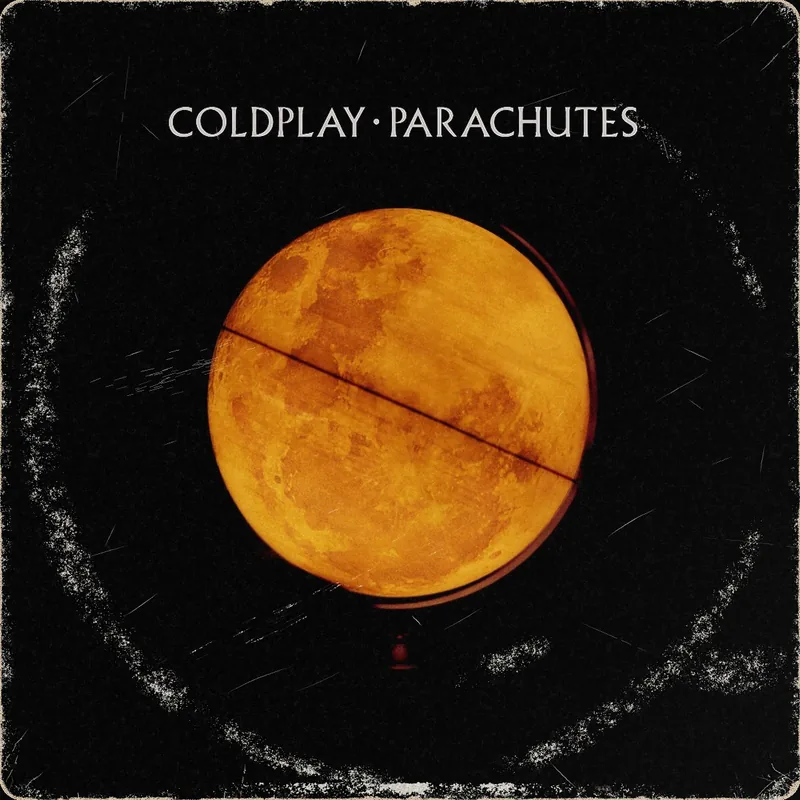
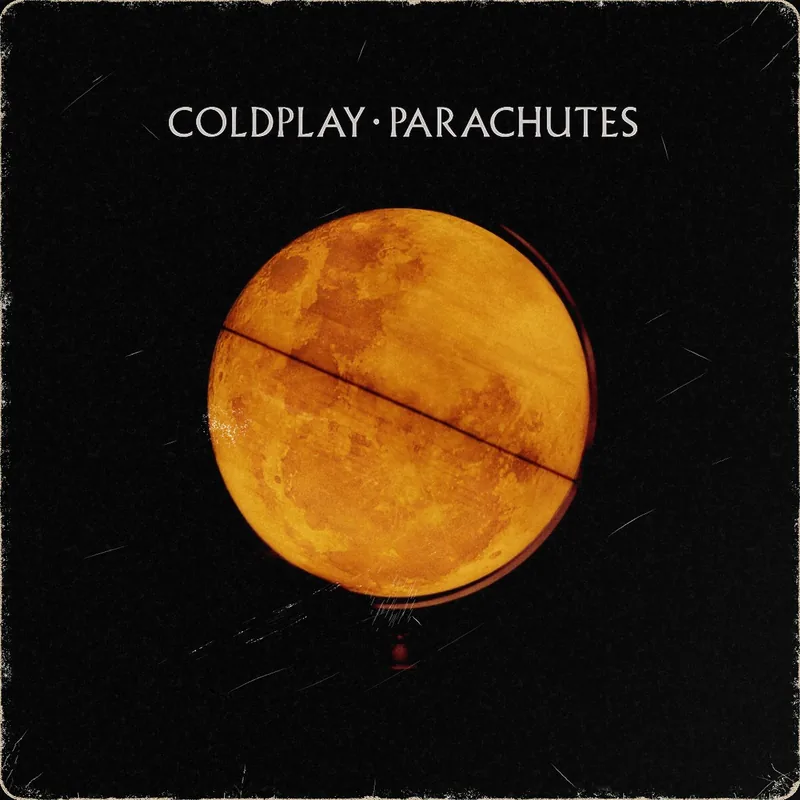
Parachutes sleeve: no ring, lighter face wear on the black cover; wear.ring knob
make-wear.py gets a per-record `ring` knob that scales everything the
disc did (ring, inner band, rim line, rub bars); default 1.0 multiplies
by exactly 1, so every other sleeve renders unchanged (Jungle checked
byte for byte). Parachutes: {level: med, ring: 0, surface: .5}, since the
broad flake ring and rub patches read as salt speckle on flat black.
Story re-rendered.

Claude-Session: https://claude.ai/code/session_01PbqXtG5SizYecEWh39Pkkj

diff --git a/scripts/make-wear.py b/scripts/make-wear.py
@@ -681,20 +681,21 @@ def surface_layer(slug, year, face='', mean=.5, edgew=1.0, surfw=0.0, bendw=0.0)
     return lay
 
 
-def make_mask(slug, year, dens=1.0, edgek=1.0, face='', mean=.5, edgew=1.0, surfw=0.0, bendw=0.0):
+def make_mask(slug, year, dens=1.0, edgek=1.0, face='', mean=.5, edgew=1.0, surfw=0.0, bendw=0.0, ringw=1.0):
     """dens and edgek scale the amount of wear without moving any of it, so every level is the same sleeve.
     face '' is the front, ':back' the back (the ring mirrored, everything else its own). mean is the
     cover's mean luminance (pale stock is handled differently).
     Returns channels: 0 abrasion (exposed paper), 1 crushed edge (card), 2 dirt (shows on light ink),
-    3 the rim's impression line, 4 the rim's stipple, 5 grey grain in rubbed white stock."""
+    3 the rim's impression line, 4 the rim's stipple, 5 grey grain in rubbed white stock.
+    ringw scales everything the disc did (ring, its inner band, rim line, rub bars); 1.0 leaves it as drawn."""
     R = ring_layer(slug, year)
     L = surface_layer(slug, year, face, mean, edgew, surfw, bendw)
     edgek = edgek * (1 + .45 * (edgew - 1))         # and a wider crushed strip and corners
     fl = (lambda a: a[:, ::-1]) if face else (lambda a: a)      # the disc presses both faces, mirrored
     T, Trub, V, Vb, Tc = fl(R['T']), fl(R['Trub']), fl(R['V']), fl(R['Vb']), fl(R['Tc'])
-    Pi = np.maximum(fl(R['Pi']), L['Pi'])
-    Pb = np.maximum(fl(R['Pb']), L['Pb'])
-    Pbc = fl(R['Pbc'])
+    Pi = np.maximum(fl(R['Pi']) * ringw, L['Pi'])
+    Pb = np.maximum(fl(R['Pb']) * ringw, L['Pb'])
+    Pbc = fl(R['Pbc']) * ringw
     light = mean > .62
     light_old = light and R['age'] > 40
     scuff = light and not light_old                  # young and mid-aged pale stock: a bar scuffs rather than soils
@@ -727,7 +728,7 @@ def make_mask(slug, year, dens=1.0, edgek=1.0, face='', mean=.5, edgew=1.0, surf
     Pall = np.maximum.reduce([Pi, Pb, Pbc]) * dens
     dense = smooth(.06, .22, Pall) if light else smooth(.12, .35, Pall)             # only a real rub holds grime
     kg = (.8 if light else .7) * (.3 + .7 * float(smooth(10, 25, R['age'])))      # and a young sleeve has gathered little
-    kr = 1 if light_old else (.7 if scuff else 1) * (1 - .45 * smooth(.1, .3, fl(R['Pi'])))   # a ring's core on pale ink: scuffed, not pencilled
+    kr = 1 if light_old else (.7 if scuff else 1) * (1 - .45 * smooth(.1, .3, fl(R['Pi']) * ringw))   # a ring's core on pale ink: scuffed, not pencilled
     dirt = np.maximum(ab_i * kg * kr, ab_b * kg * (.35 / .8 if scuff else 1)) * L['grime'] * dense
     dirt = np.maximum(dirt, L['cracks'] * (.45 if light else .8) * lk)             # (on white a crack is a hairline, not a vein)
     dirt = np.maximum(dirt, L['scratches'] * .25 * lk)
@@ -736,10 +737,10 @@ def make_mask(slug, year, dens=1.0, edgek=1.0, face='', mean=.5, edgew=1.0, surf
     if L['esoil'].any():
         dirt = np.maximum(dirt, down(flakes(L['esoil'] * dens, Tc[::-1])) * .55)
     Tf = np.clip((V - .66) / .3, .03, 1)                                                # fibre-fine: the line breaks into grain, not dashes
-    dline = down(flakes(fl(R['Dl']) * (.45 + .55 * dens), Tf))
-    dst = down(flakes(fl(R['Ds']) * dens, Tc))
-    rub = np.minimum(np.maximum(fl(R['Pb']), .6 * Pbc), 1)                           # the rub bars leave grey grain too,
-    soil = np.maximum(fl(R['soil']), rub * (.12 if scuff else .3))                  # but only a little on a younger pale sleeve
+    dline = down(flakes(fl(R['Dl']) * ringw * (.45 + .55 * dens), Tf))
+    dst = down(flakes(fl(R['Ds']) * ringw * dens, Tc))
+    rub = np.minimum(np.maximum(fl(R['Pb']) * ringw, .6 * Pbc), 1)                           # the rub bars leave grey grain too,
+    soil = np.maximum(fl(R['soil']) * ringw, rub * (.12 if scuff else .3))                  # but only a little on a younger pale sleeve
     dsoil = down(flakes(soil * dens, Tc))
     out = np.stack([mask, edge, dirt, dline, dst, dsoil], -1)
     out *= (L['Drr'] >= -1.5)[..., None]             # outside the rounded outline: the art, untouched (if anything shows it unclipped)
@@ -861,13 +862,14 @@ def job(a):
     edgew = float(w.get('edge', g['edge']))                   # per-record: more edge wear where the art hides the rest
     surfw = float(w.get('surface', g['surface']))             # per-record: more scratches, rubs, folds on the face
     bendw = float(w.get('bends', 0))                          # per-record: creases where the sleeve got bent
+    ringw = float(w.get('ring', 1.0))                         # per-record: how hard the disc's ring and rub bars read (0 = no ring)
     cov = load_square(ROOT / a['art'])
     lum = float(lum_of(cov).mean())
     tone = 1 + .3 * float(smooth(.6, .85, lum))           # light covers carry heavier wear
     masks = {}
     for lv in (LEVELS if LEVELS_DIR else [level]):
         dens, ek, _ = LEVELS[lv]
-        masks[lv] = make_mask(slug, a.get('year'), dens * tone * amount, ek, '', lum, edgew, surfw, bendw)
+        masks[lv] = make_mask(slug, a.get('year'), dens * tone * amount, ek, '', lum, edgew, surfw, bendw, ringw)
     mask, life, age, ring = masks[level]; k = LEVELS[level][2]
     MASKS.mkdir(parents=True, exist_ok=True)
     Image.fromarray((mask[..., :3] * 255 + .5).astype(np.uint8), 'RGB').save(MASKS / f'{slug}.png')
@@ -882,7 +884,7 @@ def job(a):
         dens, ek, _ = LEVELS[level]
         bw = float(w.get('back', 1.0))                        # per-record: the back's share of the wear (a stark white back shows it all)
         mb = make_mask(slug, a.get('year'), dens * (1 + .3 * float(smooth(.6, .85, lumb))) * amount * bw, ek, ':back', lumb,
-                       1 + (edgew - 1) * bw, surfw * bw, bendw)[0]
+                       1 + (edgew - 1) * bw, surfw * bw, bendw, ringw)[0]
         bk = bake(covb, mb, k, slug + ':back', age)
         if fw > 0: bk = fold(bk, slug, ':back', MIRROR[fat], fw)
         bk.save(WORN / f'{slug}-back.jpg', 'JPEG', quality=86, optimize=True, progressive=True)

diff --git a/docs/40-sleeve-wear.md b/docs/40-sleeve-wear.md
@@ -22,9 +22,12 @@ taste behind it, signed off on the first 21 records (Sep 23 2026). Apply it to e
 | `fold`    | 0       | a pressed-flat dog-ear at one corner, lit like a scan: broken white crack, soft shadow, the flap a touch lighter; mirrored on the back. For busy art that swallows `bends` (Wondrous Bughouse 1.2). `fold_at`: `tl` / `tr` / `bl` / `br` (default `tr`, where the Incubus crease sits) |
 | `amount`  | 1.2     | overall multiplier |
 | `back`    | 1.0     | the back's share of the wear. A stark white back shows every mark: Wondrous Bughouse .5. The `fold` carries through regardless |
+| `ring`    | 1.0     | how hard the disc reads: the ring, its inner band, the rim line and the rub bars, front and back. `0` = no ring. On a flat black field a broad "flake" ring reads as salt speckle: Parachutes `0` |
 | `lock`    | —       | `true` = render with base settings, exactly as signed off (Incubus, Phish) |
 
 Busy all-over art (Merriweather, Wondrous Bughouse) hides wear in the middle: push `edge` (3.5–4) instead, and if it still reads clean give it a `fold`; thin `bends` vanish in busy art.
+
+Flat black covers show every white fleck as noise. Start at `med`, and if the ring or the face's rub patches read as speckle, drop them: Parachutes is `{level: med, ring: 0, surface: .5}` (Drew: "the wear around the record ring looks very fake"). Edge frost, chipped corners and a few straight scratches carry it.
 
 ## What reads as real (Drew's notes, in their words where possible)
 
